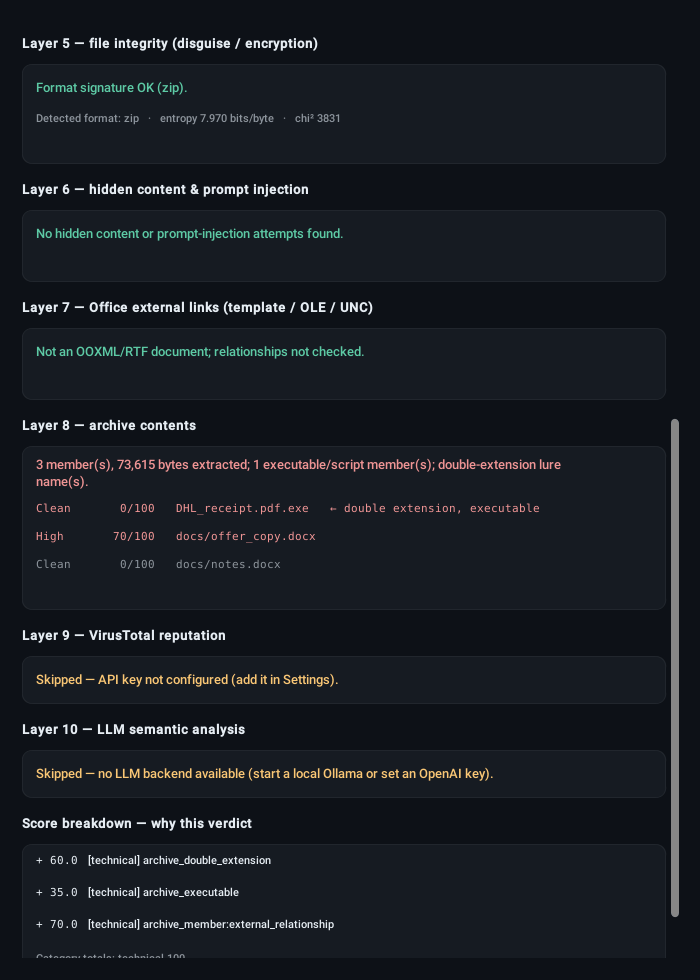
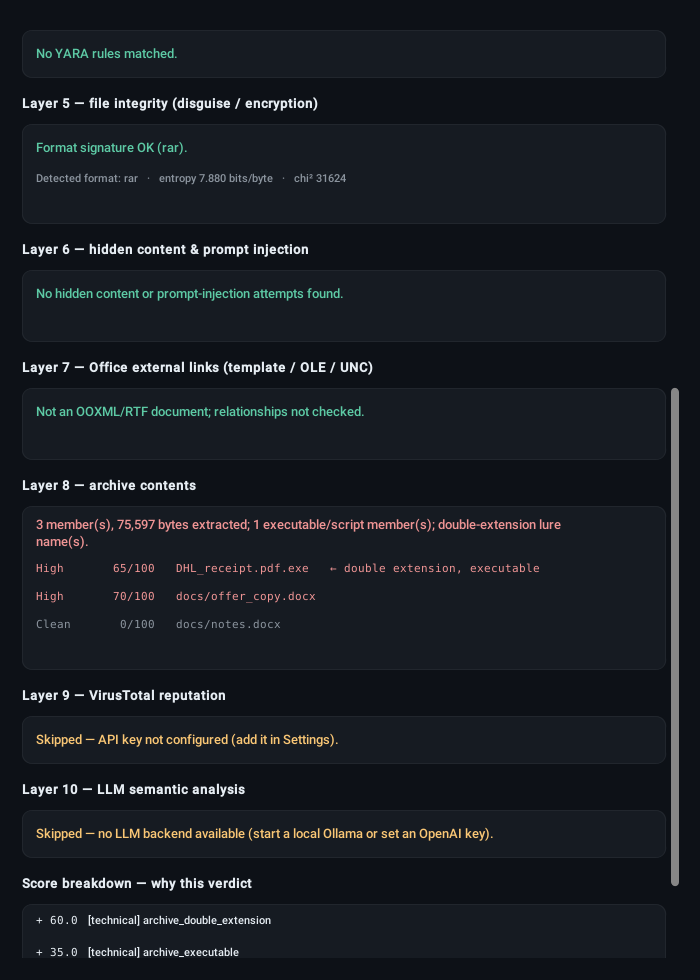
Validate 7z/RAR signatures, GUI archive labels, v4.3 screenshots

Changed region(s): [[0.03, 0.0306, 0.81, 0.9796], [0.96, 0.8878, 0.99, 0.949], [0.96, 0.398, 0.99, 0.4286]]

diff --git a/detectors/file_integrity.py b/detectors/file_integrity.py
@@ -63,7 +63,7 @@ _OOXML = (".docx", ".docm", ".dotx", ".dotm", ".xlsx", ".xlsm", ".xltx", ".xltm"
           ".xlsb", ".pptx", ".pptm", ".potx", ".potm", ".ppsx", ".ppsm")
 _OLE = (".doc", ".dot", ".xls", ".xlt", ".ppt", ".pot", ".pps", ".msg")
 EXPECTED_FORMATS: Dict[str, Sequence[str]] = {".pdf": ("pdf",), ".rtf": ("rtf",),
-                                              ".zip": ("zip",)}
+                                              ".zip": ("zip",), ".7z": ("7z",), ".rar": ("rar",)}
 EXPECTED_FORMATS.update({e: ("zip",) for e in _OOXML})
 EXPECTED_FORMATS.update({e: ("ole",) for e in _OLE})
 
@@ -78,7 +78,7 @@ BENIGN_ALTERNATES: Dict[str, Sequence[str]] = {
 # A password-protected .docx/.xlsx is stored as an OLE "EncryptedPackage".
 BENIGN_ALTERNATES.update({e: ("ole",) for e in _OOXML})
 
-DOCUMENT_EXTENSIONS = frozenset(EXPECTED_FORMATS) - {".zip"}
+DOCUMENT_EXTENSIONS = frozenset(EXPECTED_FORMATS) - {".zip", ".7z", ".rar"}
 EXECUTABLE_FORMATS = {"pe": "Windows PE executable", "elf": "Linux ELF executable",
                       "macho": "macOS Mach-O executable", "lnk": "Windows shortcut (.lnk)",
                       "script": "shebang script"}

diff --git a/tests/test_rar.py b/tests/test_rar.py
@@ -163,3 +163,16 @@ def test_scanner_scores_a_rar_like_its_worst_member(tmp_path):
     assert r["scan_results"]["archive"]["container_type"] == "rar"
     assert "archive_double_extension" in _indicators(r)
     assert r["verdict"] in ("High", "Critical")
+
+
+def test_integrity_validates_rar_and_7z_signatures(tmp_path):
+    from detectors.file_integrity import FileIntegrityAnalyzer
+    good = FileIntegrityAnalyzer().analyze_file(build_rar(tmp_path / "a.rar", [("x.txt", b"x")]))
+    assert good.magic_ok and "not validated" not in good.detail
+    encrypted = tmp_path / "b.rar"            # an archive ransomware has encrypted in place
+    encrypted.write_bytes(__import__("os").urandom(64 * 1024))
+    res = FileIntegrityAnalyzer().analyze_file(encrypted)
+    assert res.encrypted_likely and not res.disguised_executable
+    exe = tmp_path / "c.7z"                   # an archive extension is not a "document" disguise
+    exe.write_bytes(_pe_bytes(2048))
+    assert not FileIntegrityAnalyzer().analyze_file(exe).disguised_executable

diff --git a/gui.py b/gui.py
@@ -229,7 +229,7 @@ def layers_summary(result: dict) -> str:
     if arc:
         bad = sum(1 for m in arc.get("member_results", []) or []
                   if m.get("verdict", "Clean") != "Clean" or m.get("archive_flags"))
-        parts.append(f"zip{arc.get('member_count', 0)}" + (f"!{bad}" if bad else ""))
+        parts.append(f"arc{arc.get('member_count', 0)}" + (f"!{bad}" if bad else ""))
 
     mail = sr.get("mail", {})
     if mail:
@@ -1050,7 +1050,7 @@ class DashboardPage(BasePage):
         names = ["integrity"]
         if RS.DEFUSEDXML_AVAILABLE:
             names += ["hidden", "links"]
-        names += ["zip", "mail"]
+        names += ["archives", "mail"]
         ml = getattr(scanner, "ml", None)
         if ml is not None:
             names.append("ML model" if ml.has_model else "ML rules")

diff --git a/CHANGELOG.md b/CHANGELOG.md
@@ -4,6 +4,18 @@ All notable changes to this project are documented here.
 The format is based on [Keep a Changelog](https://keepachangelog.com/),
 and the project aims to follow [Semantic Versioning](https://semver.org/).
 
+## [Unreleased]
+
+### Changed
+
+- The integrity layer validates `.7z` and `.rar` signatures, so a 7z/RAR file
+  that ransomware has encrypted in place is reported as encrypted content
+  instead of "extension not validated". Archive extensions are never treated as
+  a document disguise.
+- GUI labels say "archives" / `arc` instead of "zip", since the layer covers
+  ZIP, 7z, RAR and ISO.
+- README screenshots retaken on v4.3.
+
 ## [4.3.0] — 2026-10-16
 
 The two items left open by 4.2.

diff --git a/README.md b/README.md
@@ -507,7 +507,7 @@ A desktop front-end built with CustomTkinter that uses the scanner as a library.
 
 ![Settings](docs/screenshot-settings.png)
 
-Engineering notes: scanning and canary checks run in worker threads and talk to the UI through queues (Tkinter is not thread-safe); *Stop* cancels cleanly after the current file. The result-detail and settings screenshots are from v3; the rest show v4.
+Engineering notes: scanning and canary checks run in worker threads and talk to the UI through queues (Tkinter is not thread-safe); *Stop* cancels cleanly after the current file. All screenshots show v4.3 (synthetic samples, no LLM or VirusTotal key configured).
 
 ### How autostart works per platform
 
